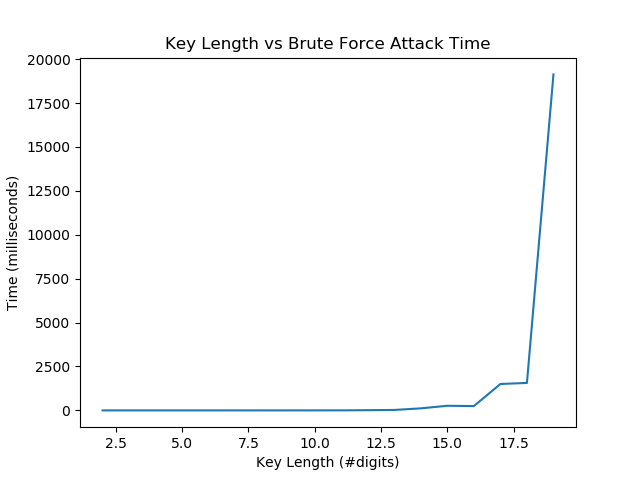
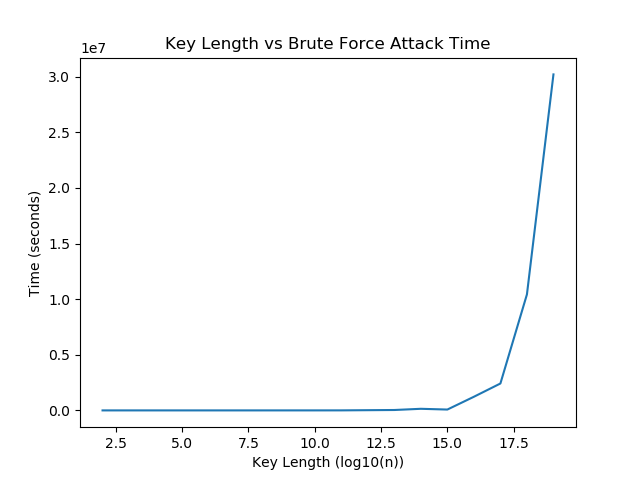
Update plotting

diff --git a/src/main.py b/src/main.py
@@ -84,7 +84,7 @@ for l in range(2, 20):
         tic = time.time()
         d_ = attacks.brute_force(rsa)
         toc = time.time()
-        bf_time += (toc - tic) * 1000
+        bf_time += (toc - tic) * 1000 * 1000
         assert (d == d_)
 
     # Append values
@@ -97,14 +97,14 @@ for l in range(2, 20):
 
 f1 = plt.figure()
 plt.title('Key Length vs Encryption Time')
-plt.xlabel('Key Length (#digits)')
+plt.xlabel('Key Length (log10(n))')
 plt.ylabel('Time (milliseconds)')
 plt.plot(key_len, encryption_time)
 
 f2 = plt.figure()
 plt.title('Key Length vs Brute Force Attack Time')
-plt.xlabel('Key Length (#digits)')
-plt.ylabel('Time (milliseconds)')
+plt.xlabel('Key Length (log10(n))')
+plt.ylabel('Time (seconds)')
 plt.plot(key_len[:len(brute_force_attack_time)], brute_force_attack_time)
 
 plt.show()
